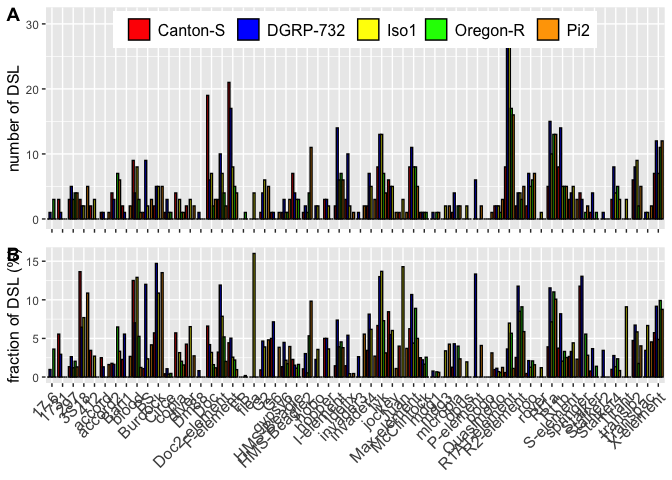
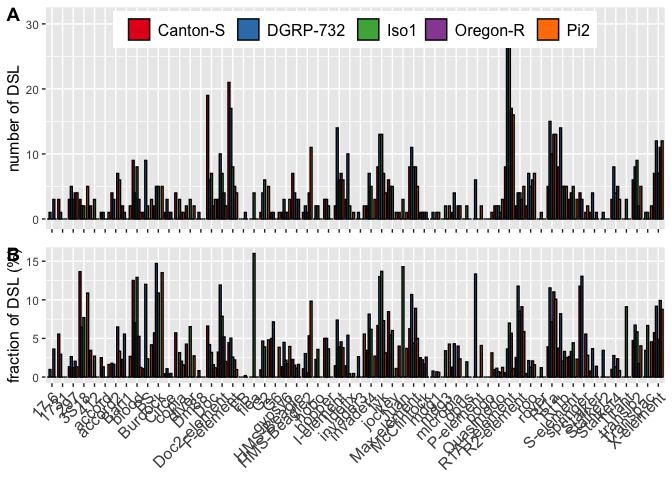
changed colors based on colorbrewer (qualitative)

diff --git a/rmd-scripts/supp_butterfly-heterogeneity.md b/rmd-scripts/supp_butterfly-heterogeneity.md
@@ -181,12 +181,12 @@ frac<-subset(frac,sumsum!=0)
 abs<-ggplot(frac, aes(x=family, y=sum))+geom_boxplot() 
 abs<-abs+theme(axis.text.x = element_text(angle = 45,hjust=1),axis.title.x=element_blank())+ylab("number of DSL")
 
-ga<-ggplot(frac,aes(x=family,y=sum,fill=strain))+geom_bar(stat="identity",position="dodge",color="black")+ylab("number of DSL")+theme(axis.title.x=element_blank(),axis.text.x=element_blank(),legend.position = c(0.5, 0.9),legend.direction = "horizontal",legend.title = element_blank(),legend.text = element_text(size=12),axis.title.y=element_text(size=12))+ scale_fill_manual(values = c("red", "blue","yellow", "green","orange"))
+ga<-ggplot(frac,aes(x=family,y=sum,fill=strain))+geom_bar(stat="identity",position="dodge",color="black")+ylab("number of DSL")+theme(axis.title.x=element_blank(),axis.text.x=element_blank(),legend.position = c(0.5, 0.9),legend.direction = "horizontal",legend.title = element_blank(),legend.text = element_text(size=12),axis.title.y=element_text(size=12))+ scale_fill_manual(values = c("#e41a1c", "#377eb8", "#4daf4a", "#984ea3", "#ff7f00"))
 
 rel<-ggplot(frac, aes(x=family, y=rel))+geom_boxplot() 
 rel<-rel+theme(axis.text.x = element_text(angle = 45,hjust=1),axis.title.x=element_blank())+ylab("fraction of DSL")
 
-gr<-ggplot(frac,aes(x=family,y=rel*100,fill=strain))+geom_bar(stat="identity",position="dodge",color="black")+ylab("fraction of DSL (%)")+theme(axis.text.x = element_text(angle = 45,hjust=1,size=12),axis.title.x=element_blank(),legend.position="None",axis.title.y=element_text(size=12))+ scale_fill_manual(values = c("red", "blue","yellow", "green","orange"))
+gr<-ggplot(frac,aes(x=family,y=rel*100,fill=strain))+geom_bar(stat="identity",position="dodge",color="black")+ylab("fraction of DSL (%)")+theme(axis.text.x = element_text(angle = 45,hjust=1,size=12),axis.title.x=element_blank(),legend.position="None",axis.title.y=element_text(size=12))+ scale_fill_manual(values = c("#e41a1c", "#377eb8", "#4daf4a", "#984ea3", "#ff7f00"))
 
 g<-ggarrange(ga,gr,
              labels = c("A", "B"),
